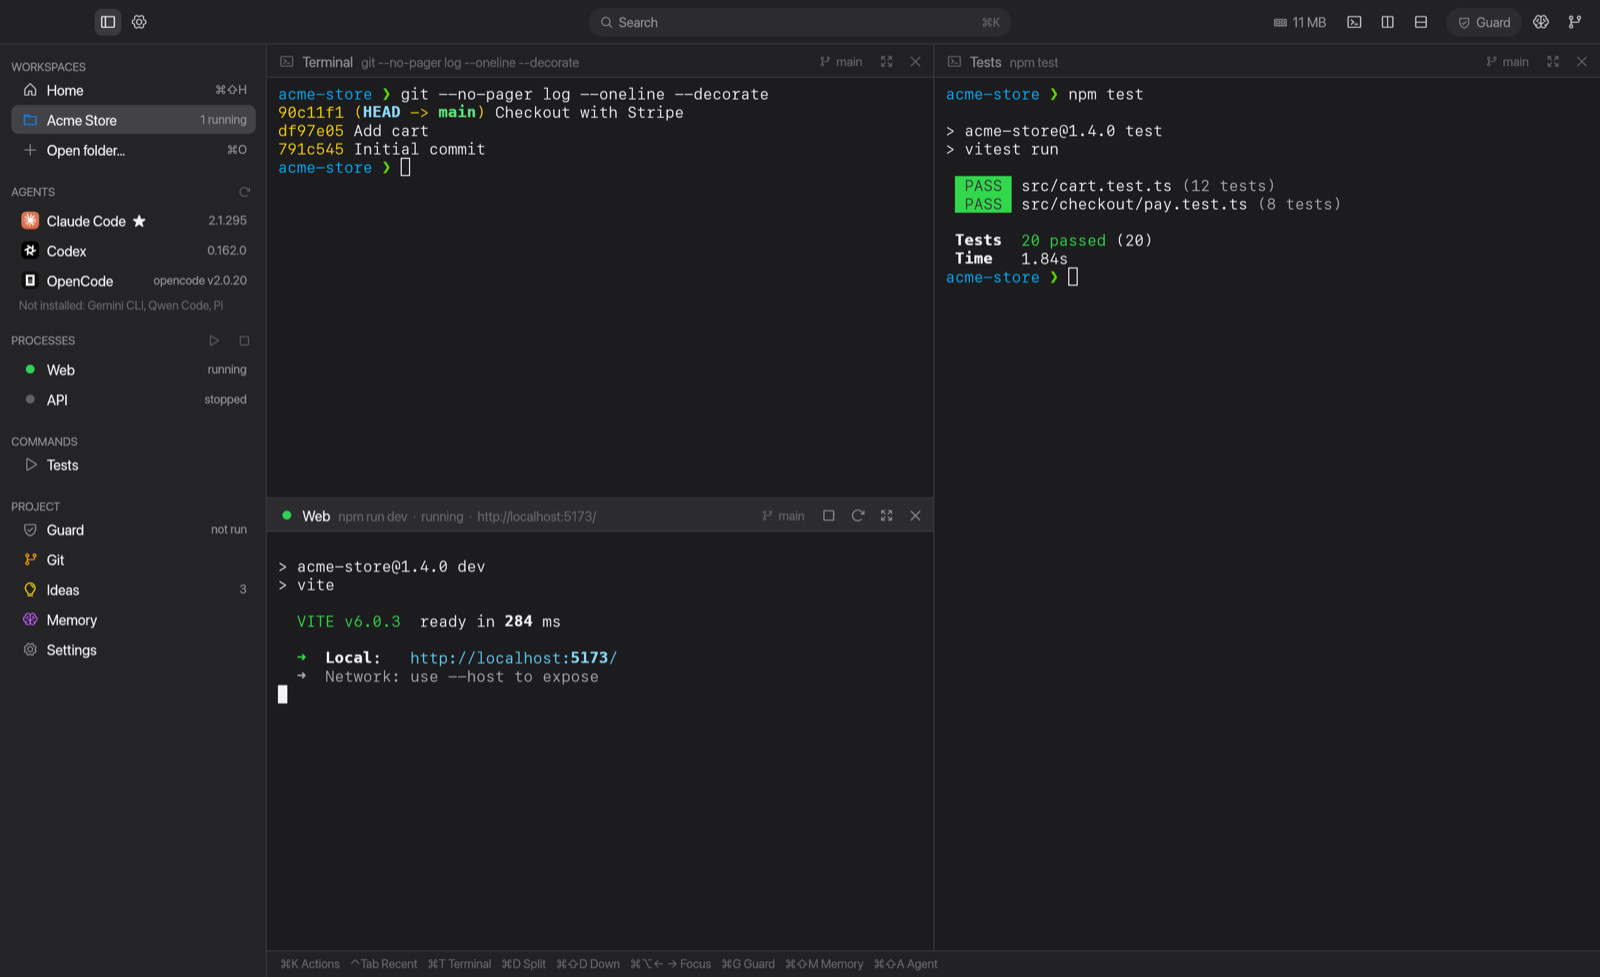
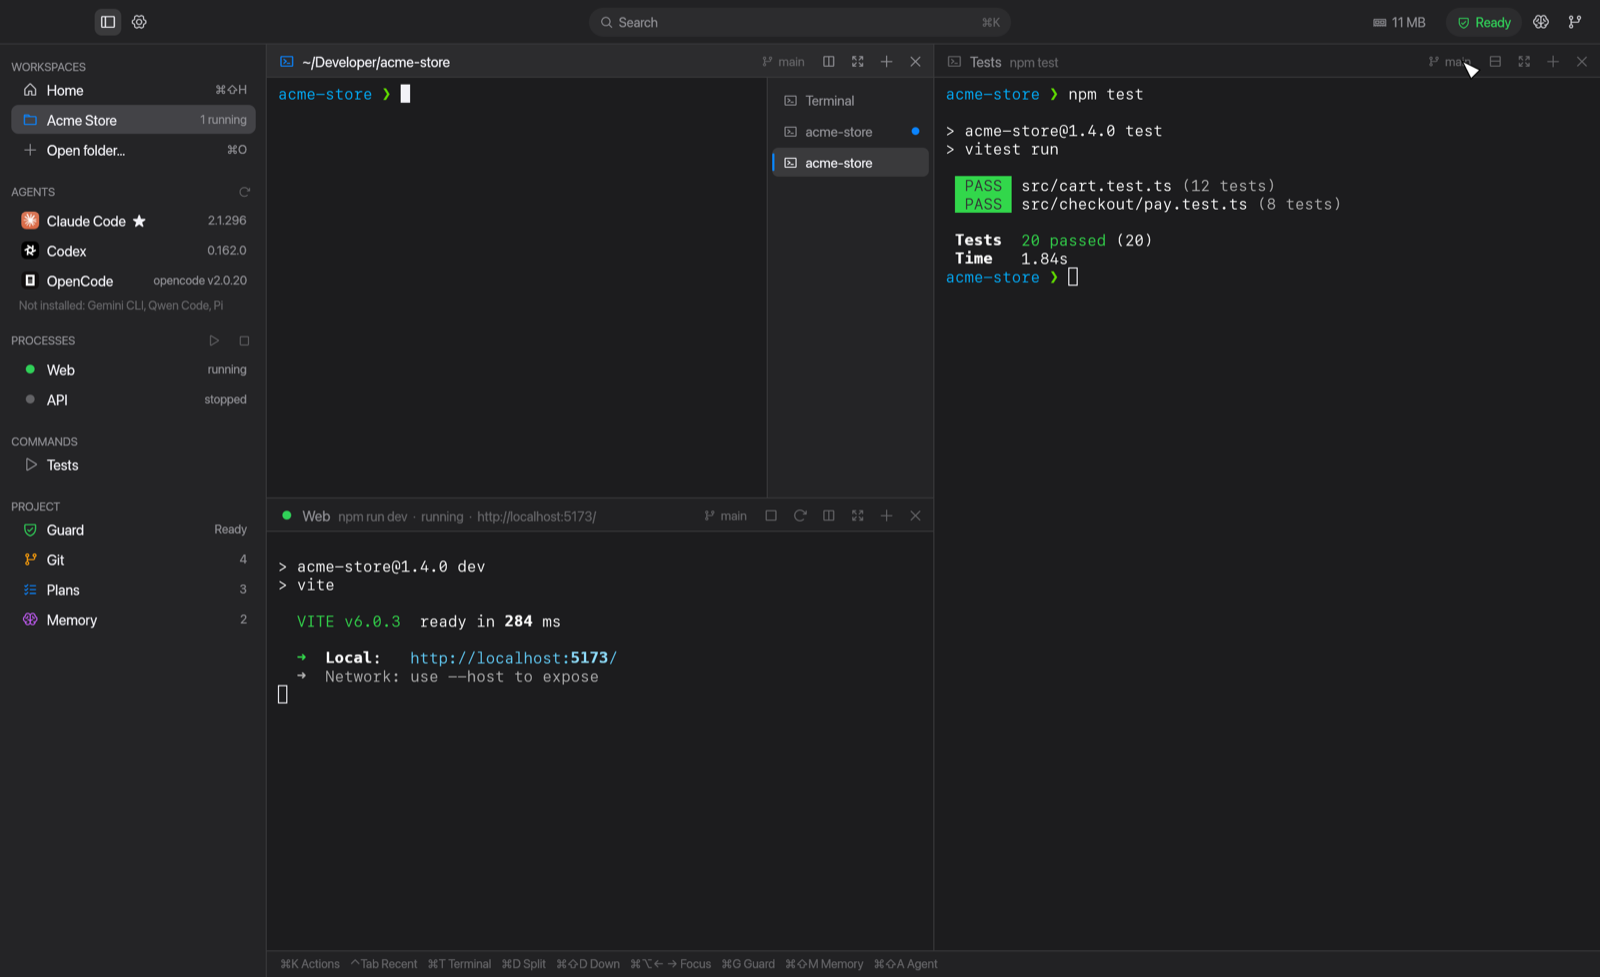
feat(workspace): activity dots and drag-to-reorder in the terminal list; docs (#36)

diff --git a/src/workspace.rs b/src/workspace.rs
@@ -259,6 +259,8 @@ enum HeaderAction {
     NewTab,
     ShowTab(PanelId),
     CloseTab(PanelId),
+    /// Reordenar: la terminal pasa a esta posición de su grupo.
+    MoveTab(PanelId, usize),
     Rotate,
     /// Con un panel maximizado: maximizar este otro en su lugar.
     Show(PanelId),
@@ -294,6 +296,8 @@ pub struct Workspace {
     seen_failures: Vec<String>,
     /// Bytes que había escrito cada terminal la última vez que se vio el proyecto.
     seen_output: HashMap<PanelId, u64>,
+    /// Salida de cada terminal la última vez que estuvo a la vista (avisos en la lista).
+    tab_seen: HashMap<PanelId, u64>,
     /// Bytes de cada terminal cuando se guardó su historial (para no reescribirlo igual).
     history_saved: HashMap<PanelId, u64>,
     /// Avisos ya notificados desde la última vez que se vio el proyecto (uno por aviso).
@@ -348,6 +352,7 @@ impl Workspace {
             seen: Instant::now(),
             seen_failures: Vec::new(),
             seen_output: HashMap::new(),
+            tab_seen: HashMap::new(),
             history_saved: HashMap::new(),
             notified: Vec::new(),
             sticky: None,
@@ -1085,6 +1090,12 @@ impl Workspace {
         self.layout.parent_dir(self.focus)
     }
 
+    /// ¿La terminal tiene aviso en la lista (escribió oculta o falló)? (tests)
+    #[cfg(test)]
+    pub fn has_tab_alert(&self, id: PanelId) -> bool {
+        self.tab_alert(id).is_some()
+    }
+
     #[cfg(test)]
     pub fn focused(&self) -> PanelId {
         self.focus
@@ -1359,6 +1370,10 @@ impl Workspace {
         let key = self.project.path.clone();
         let mut header_actions = Vec::new();
         for (id, rect) in self.rects(area) {
+            // Lo que la terminal visible ya mostró no cuenta como aviso al ocultarla.
+            if let Some(bytes) = self.panel_output(id) {
+                self.tab_seen.insert(id, bytes);
+            }
             let (header, body) = rect.split_top_bottom_at_y(rect.min.y + HEADER);
             header_actions.extend(self.header(ui, id, header).into_iter().map(|a| (id, a)));
             // Varias terminales en este panel y sitio de sobra: lista a la derecha (VS Code).
@@ -1448,6 +1463,13 @@ impl Workspace {
                 }
                 HeaderAction::ShowTab(tab) => self.show_tab(tab),
                 HeaderAction::CloseTab(tab) => self.close(tab),
+                HeaderAction::MoveTab(tab, to) => {
+                    if let Some(group) = self.tabs.iter_mut().find(|g| g.contains(&tab)) {
+                        group.retain(|p| *p != tab);
+                        let to = to.min(group.len());
+                        group.insert(to, tab);
+                    }
+                }
                 HeaderAction::Show(other) => {
                     self.focus = other;
                     self.maximized = Some(other);
@@ -1473,6 +1495,35 @@ impl Workspace {
             }
         }
         label
+    }
+
+    /// Bytes que ha escrito la terminal de un panel (shell o proceso).
+    fn panel_output(&self, id: PanelId) -> Option<u64> {
+        match &self.panels.get(&id)?.content {
+            Content::Shell(t) => Some(t.output_bytes()),
+            Content::Process(p) => self
+                .processes
+                .get(p)
+                .and_then(|m| m.terminal.as_ref())
+                .map(|t| t.output_bytes()),
+        }
+    }
+
+    /// Aviso de una terminal oculta: rojo si su proceso falló, acento si escribió algo
+    /// desde la última vez que se vio.
+    fn tab_alert(&self, id: PanelId) -> Option<Color32> {
+        if let Some(Content::Process(p)) = self.panels.get(&id).map(|p| &p.content)
+            && self.processes.get(p).is_some_and(|m| {
+                matches!(m.status, crate::processes::Status::Failed(_))
+                    || matches!(m.status, crate::processes::Status::Exited { code } if code != 0)
+            })
+        {
+            return Some(crate::theme::RED);
+        }
+        let seen = self.tab_seen.get(&id).copied().unwrap_or(0);
+        self.panel_output(id)
+            .filter(|bytes| *bytes > seen)
+            .map(|_| crate::theme::ACCENT)
     }
 
     /// Icono de una terminal en la lista: proceso, agente o shell.
@@ -1514,8 +1565,37 @@ impl Workspace {
             }
             let label = self.tab_name(*tab);
             let response = ui
-                .interact(row, egui::Id::new(("tab-row", &key, *tab)), Sense::click())
+                .interact(
+                    row,
+                    egui::Id::new(("tab-row", &key, *tab)),
+                    Sense::click_and_drag(),
+                )
                 .on_hover_cursor(egui::CursorIcon::PointingHand);
+            // Arrastrar para reordenar: una línea marca dónde caerá.
+            let slot = |y: f32| {
+                (((y - rect.min.y - 6.0) / TAB_ROW).round().max(0.0) as usize).min(tabs.len())
+            };
+            if response.dragged() {
+                ui.ctx().set_cursor_icon(egui::CursorIcon::Grabbing);
+                if let Some(p) = ui.ctx().pointer_interact_pos() {
+                    let y = rect.min.y + 6.0 + slot(p.y) as f32 * TAB_ROW;
+                    painter.hline(
+                        (rect.min.x + 8.0)..=(rect.max.x - 8.0),
+                        y,
+                        egui::Stroke::new(2.0, theme::ACCENT),
+                    );
+                }
+            }
+            if response.drag_stopped()
+                && let Some(p) = ui.ctx().pointer_interact_pos()
+            {
+                let to = slot(p.y);
+                // Soltarla después de sí misma la deja una posición antes.
+                let to = if to > i { to - 1 } else { to };
+                if to != i {
+                    actions.push(HeaderAction::MoveTab(*tab, to));
+                }
+            }
             let spoken = tr!(
                 "Terminal {n} de {total}: {name}",
                 n = i + 1,
@@ -1602,6 +1682,9 @@ impl Workspace {
                     &close,
                     theme::TEXT_3,
                 );
+            } else if let Some(color) = self.tab_alert(*tab).filter(|_| !current) {
+                // Escribió algo (o falló) mientras estaba oculta.
+                painter.circle_filled(trash.center(), 3.5, color);
             }
             if close.on_hover_text(&hint).clicked() {
                 actions.push(HeaderAction::CloseTab(*tab));

diff --git a/src/app/e2e.rs b/src/app/e2e.rs
@@ -1080,3 +1080,63 @@ fn stacked_terminals_from_the_panel_ui() {
     h.run_steps(3);
     assert_eq!(ws(h.state()).panel_count(), 2);
 }
+
+/// Una terminal que escribe mientras está oculta lleva aviso en la lista; las filas se
+/// reordenan arrastrándolas.
+#[test]
+fn hidden_terminals_show_activity_and_rows_reorder_by_drag() {
+    let _serial = serial();
+    let mut h = app(project("tabs-polish"));
+    wait_until(&mut h, "shell listo", |a| {
+        ws(a).is_quiet(Duration::from_millis(500))
+    });
+    let first = ws(h.state()).focused();
+    // Escribe dentro de un segundo; mientras, se pasa a otra terminal del panel.
+    h.event(egui::Event::Text("sleep 1; echo zzoculta".into()));
+    h.key_press(Key::Enter);
+    h.run_steps(2);
+    h.key_press_modifiers(CMD, Key::T);
+    h.run_steps(3);
+    let second = ws(h.state()).focused();
+    assert_ne!(first, second);
+    wait_until(&mut h, "aviso de la terminal oculta", |a| {
+        ws(a).has_tab_alert(first)
+    });
+    assert!(
+        !ws(h.state()).has_tab_alert(second),
+        "la visible no lleva aviso"
+    );
+
+    // Arrastrar la segunda fila por encima de la primera.
+    h.key_press_modifiers(CMD, Key::T);
+    h.run_steps(3);
+    let tabs = ws(h.state()).panel_tabs(first);
+    assert_eq!(tabs.len(), 3);
+    let row = |h: &Harness<'_, App>, n: usize| {
+        h.get_by_label_contains(&format!("Terminal {n} de 3"))
+            .rect()
+            .center()
+    };
+    let (from, to) = (row(&h, 3), row(&h, 1));
+    let button = |pos, pressed| egui::Event::PointerButton {
+        pos,
+        button: egui::PointerButton::Primary,
+        pressed,
+        modifiers: Modifiers::NONE,
+    };
+    h.event(egui::Event::PointerMoved(from));
+    h.event(button(from, true));
+    h.run_steps(2);
+    for k in 1..=6 {
+        let y = from.y + (to.y - 10.0 - from.y) * k as f32 / 6.0;
+        h.event(egui::Event::PointerMoved(egui::pos2(from.x, y)));
+        h.run_steps(1);
+    }
+    h.event(button(egui::pos2(from.x, to.y - 10.0), false));
+    h.run_steps(3);
+    assert_eq!(
+        ws(h.state()).panel_tabs(first),
+        vec![tabs[2], tabs[0], tabs[1]],
+        "la tercera pasa a la primera posición"
+    );
+}

diff --git a/src/app/preview.rs b/src/app/preview.rs
@@ -445,6 +445,12 @@ fn ui_preview() {
     harness.state_mut().workspaces[0].new_tab(&ctx);
     settle(&mut harness);
     save(&mut harness, &out, "17-terminales");
+    // Ventana pequeña: el panel es estrecho y la lista pasa a ser el chip "n/3 ▾".
+    harness.set_size(Vec2::new(900.0, 620.0));
+    settle(&mut harness);
+    save(&mut harness, &out, "17b-terminales-estrecho");
+    harness.set_size(Vec2::new(1440.0, 880.0));
+    settle(&mut harness);
     harness.state_mut().settings_open = false;
     harness.state_mut().workspaces[0].ideas.open = false;
 

diff --git a/README.es.md b/README.es.md
@@ -39,7 +39,7 @@ Cuando trabajas con Claude Code, Codex u OpenCode, el día se reparte entre pest
 <td width="50%">
 
 ### Workspaces
-Terminales reales con divisiones, foco por teclado, búsqueda (`⌘F`) e historial que sobrevive a los reinicios. ⌘-clic abre enlaces. Procesos administrados (`dev`, `api`…) con reinicio, puertos detectados y health checks.
+Terminales reales **al estilo VS Code**: varias en un mismo panel (**+** o `⌘T`), cambias desde la lista lateral (`⌘⇧]` / `⌘⇧[`), las reordenas arrastrando y ves cuáles escribieron algo mientras estaban ocultas. Divisiones que se giran, foco por teclado, búsqueda (`⌘F`), sugerencias de carpetas al escribir e historial que sobrevive a los reinicios. ⌘-clic abre enlaces, aunque estén partidos. Procesos administrados (`dev`, `api`…) con reinicio, puertos detectados y health checks. Todas las acciones están también en la **barra de menús de macOS** con su atajo.
 
 </td>
 </tr>
@@ -148,7 +148,8 @@ Cualquier `claude` que se ejecute en una terminal de Forge (escrito a mano, `cla
 | `⌘O` | Abrir carpeta | `⌘⇧M` / `⌘⇧I` | Memoria / Planes |
 | `⌘1`…`⌘9` | Cambiar de proyecto | `⌘⇧A` | Abrir agente |
 | `⌃Tab` | Proyecto reciente | `⌘F` | Buscar en la terminal |
-| `⌘T` | Nueva terminal | `⌘B` | Mostrar/ocultar barra lateral |
+| `⌘T` | Nueva terminal (en el panel) | `⌘B` | Mostrar/ocultar barra lateral |
+| `⌘⇧]` `⌘⇧[` | Terminal siguiente / anterior | `⌘]` `⌘[` | Panel siguiente / anterior |
 | `⌘D` / `⌘⇧D` | Dividir a la derecha / abajo | `⌘⇧H` | Inicio |
 | `⌘⌥←` `⌘⌥→` | Mover el foco | `⌘,` | Ajustes |
 

diff --git a/README.md b/README.md
@@ -39,7 +39,7 @@ When you work with Claude Code, Codex or OpenCode, your day is scattered across 
 <td width="50%">
 
 ### Workspaces
-Real terminals with splits, keyboard focus, scrollback search (`⌘F`) and history that survives restarts. ⌘-click opens links. Managed processes (`dev`, `api`…) with restart, detected ports and health checks.
+Real terminals, **VS Code–style**: stack several in one panel (**+** or `⌘T`), switch from the side list (`⌘⇧]` / `⌘⇧[`), drag to reorder, and see which hidden ones printed something. Splits you can rotate, keyboard focus, scrollback search (`⌘F`), folder suggestions as you type and history that survives restarts. ⌘-click opens links, even wrapped ones. Managed processes (`dev`, `api`…) with restart, detected ports and health checks. Every action also lives in the **macOS menu bar** with its shortcut.
 
 </td>
 </tr>
@@ -146,7 +146,8 @@ Any `claude` started inside a Forge terminal — typed by hand, `claude --resume
 | `⌘O` | Open folder | `⌘⇧M` / `⌘⇧I` | Memory / Plans |
 | `⌘1`…`⌘9` | Switch project | `⌘⇧A` | Open agent |
 | `⌃Tab` | Recent project | `⌘F` | Search in terminal |
-| `⌘T` | New terminal | `⌘B` | Toggle sidebar |
+| `⌘T` | New terminal (same panel) | `⌘B` | Toggle sidebar |
+| `⌘⇧]` `⌘⇧[` | Next / previous terminal | `⌘]` `⌘[` | Next / previous panel |
 | `⌘D` / `⌘⇧D` | Split right / down | `⌘⇧H` | Home |
 | `⌘⌥←` `⌘⌥→` | Move focus | `⌘,` | Settings |
 
